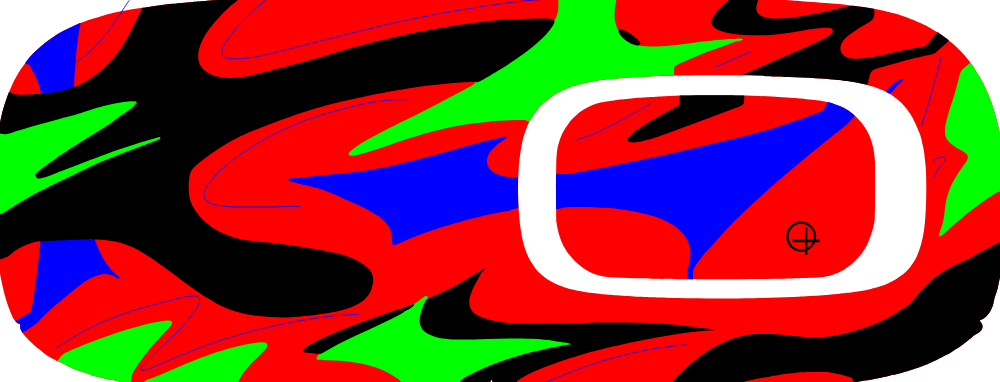
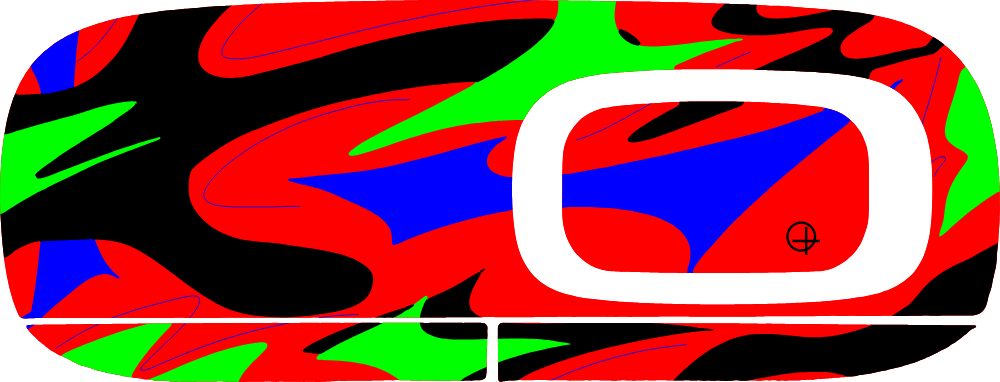
fdghjjk

diff --git a/src/lib/car.ts b/src/lib/car.ts
@@ -270,7 +270,7 @@ function nightLayers(u: string, o: CarOpts, ang: Angle, img: string) {
 }
 
 /* Each design draws into the door panel and the rear window; everything is clipped to those two shapes. */
-export const ART: Record<string, { door: (a: string, b: string, u: string) => string; win: (a: string, b: string, u: string) => string }> = {};
+export const ART: Record<string, { door: (a: string, b: string, u: string, logo?: boolean) => string; win: (a: string, b: string, u: string) => string }> = {};
 
 /* Signature artwork: the whole door shape maps onto the door panel; a section of the same art (left of the badge) fills the rear window.
    The picture size follows the device: 1000 px files on small screens / low memory, 1600 px otherwise (the server render uses the
@@ -287,16 +287,26 @@ const toneMatrix = (a: string, b: string) => {
   const L = p(a), Dk = p(b);
   return [0, 1, 2].map((ch) => `${L[ch]} ${Dk[ch]} 1 0 0`).join(' ') + ' 0 0 0 1 0';
 };
+/* "Logo only" middle part: a plain dark plate with the OFS/T logo, exactly the shape and size of the middle piece of the door sticker
+   (INNER, in millimetres on the sticker sheet, the same for every design), drawn over the design inside the picture so it follows the
+   door in every view. */
+const SHEET_MM = [746, 285];
+const INNER = 'M551 203.6 L544.4 203.7 L537.8 203.7 L531.2 203.7 L524.6 203.7 L518 203.7 L511.4 203.7 L504.8 203.6 L498.2 203.5 L491.6 203.4 L485 203.2 L478.4 203 L471.8 202.9 L465.2 202.7 L458.6 202.4 L452 201.9 L445.6 200.2 L439.7 197.3 L434.3 193.5 L429.6 188.9 L425.9 183.5 L422.9 177.6 L420.9 171.3 L419.8 164.8 L419.4 158.2 L419.4 151.6 L419.4 145 L419.5 138.4 L419.5 131.8 L419.5 125.2 L419.8 118.6 L420.4 112.1 L422.1 105.7 L424.8 99.7 L428.4 94.2 L432.9 89.3 L438.2 85.5 L444.1 82.5 L450.4 80.7 L456.9 79.6 L463.5 78.7 L470 78.2 L476.6 77.6 L483.2 77.2 L489.8 76.9 L496.4 76.5 L503 76.1 L509.6 75.9 L516.2 75.8 L522.8 75.7 L529.4 75.7 L536 75.7 L542.6 75.7 L549.2 75.8 L555.8 75.9 L562.4 76.1 L569 76.4 L575.5 76.6 L582.1 77 L588.7 77.4 L595.3 77.9 L601.9 78.7 L608.4 79.3 L615 80.3 L621.3 82.1 L627.4 84.6 L632.9 88.2 L637.7 92.8 L641.6 98 L644.6 103.9 L646.7 110.2 L647.8 116.7 L648.2 123.2 L648.3 129.8 L648.3 136.4 L648.3 143 L648.3 149.6 L648.2 156.2 L647.9 162.8 L646.7 169.3 L644.7 175.6 L642.1 181.6 L638.5 187.2 L634 192 L628.8 196.1 L623.1 199.3 L616.8 201.5 L610.3 202.4 L603.7 202.8 L597.1 202.9 L590.5 203.1 L583.9 203.3 L577.3 203.4 L570.7 203.4 L564.1 203.5 L557.5 203.6Z';
+const logoPlate = (a: string, u: string, kx: number, ky: number) => `<g transform="scale(${kx.toFixed(4)} ${ky.toFixed(4)})">
+    <linearGradient id="${u}-pl" x1="0" y1="0" x2="0" y2="1"><stop offset="0" stop-color="#262626"/><stop offset="1" stop-color="#141414"/></linearGradient>
+    <path d="${INNER}" fill="url(#${u}-pl)" stroke="#1D1D1D" stroke-width=".5" stroke-linejoin="round"/>
+    <mask id="${u}-lg" maskUnits="userSpaceOnUse" x="490" y="96" width="88" height="88"><image href="${LOGO}" x="494.8" y="100.7" width="78" height="78"/></mask>
+    <rect class="plate-logo" x="490" y="96" width="88" height="88" fill="${a}" mask="url(#${u}-lg)"/></g>`;
 /* Draws a design's picture into the door panel (whole sheet) and the rear window (a section of the same art, left of the badge). */
 export function registerArt(id: string, S: ArtSrc) {
   const [l, t, r, b] = S.pill, i = 0;
-  const art = (x: number, y: number, w: number, h: number, vb: number[], a: string, bb: string, u: string) => {
+  const art = (x: number, y: number, w: number, h: number, vb: number[], a: string, bb: string, u: string, logo = false) => {
     const filt = S.mode === 'mask' ? `<filter id="${u}-tone" x="0" y="0" width="1" height="1" color-interpolation-filters="sRGB"><feColorMatrix type="matrix" values="${toneMatrix(a, bb)}"/></filter>` : '';
     return `${filt}<svg x="${x}" y="${y}" width="${w}" height="${h}" viewBox="${vb.join(' ')}" preserveAspectRatio="none" overflow="hidden">
-      <image href="${S.src(ART_W)}" width="${S.size[0]}" height="${S.size[1]}"${filt ? ` filter="url(#${u}-tone)"` : ''}/></svg>`;
+      <image href="${S.src(ART_W)}" width="${S.size[0]}" height="${S.size[1]}"${filt ? ` filter="url(#${u}-tone)"` : ''}/>${logo ? logoPlate(a, u, (r - l) / SHEET_MM[0], (b - t) / SHEET_MM[1]) : ''}</svg>`;
   };
   ART[id] = {
-    door: (a, bb, u) => art(872, 654, 279, 112, [l + i, t + i, r - l - 2 * i, b - t - 2 * i], a, bb, u + 'd'),
+    door: (a, bb, u, logo) => art(872, 654, 279, 112, [l + i, t + i, r - l - 2 * i, b - t - 2 * i], a, bb, u + 'd', !!logo),
     win: (a, bb, u) => art(1161, 345, 139, 144, [l + 370, t + 8, 650, b - t - 16], a, bb, u + 'w'),
   };
 }
@@ -346,17 +356,12 @@ export function carSVG(kit: Kit, o: CarOpts): string {
   // Door sticker: panel artwork, its shading, the panel lines and the OFS/T badge plate over the factory badge.
   const door = Z.door ? `<g clip-path="url(#${u}-door)">
       <rect x="860" y="645" width="300" height="130" fill="${panelOf(o.model, o.trim, 'side')}"/>
-      <g class="slot-door"><g>${A.door(a, b, u + 'x')}</g></g>
+      <g class="slot-door"><g>${A.door(a, b, u + 'x', !centreFull(o))}</g></g>
       <rect x="860" y="645" width="300" height="130" fill="url(#${u}-ds)"/>
       <rect class="shine" x="860" y="645" width="300" height="130" fill="url(#${u}-sh)" ${shine}/>
     </g>
     <rect ${M.door} fill="none" stroke="#0E0F10" stroke-width="2.5"/>
-    <path d="M876 741.5 H1147" stroke="#060606" stroke-width="3"/><path d="M880 744.2 H1143" stroke="#fff" stroke-opacity=".07" stroke-width="1"/><path d="M1011.5 743 V762" stroke="#060606" stroke-width="2.5"/>
-    ${centreFull(o) ? '' : `<image ${img} clip-path="url(#${u}-badge)"/>
-    <rect x="${P[0]}" y="${P[1]}" width="${P[2]}" height="${P[3]}" rx="${P[4]}" fill="url(#${u}-pl)"/><g${M.dx ? ` transform="translate(${M.dx} 0)"` : ''}>
-    <mask id="${u}-lg" maskUnits="userSpaceOnUse" x="1050" y="684" width="50" height="44"><image href="${LOGO}" x="1056" y="687" width="37" height="37"/></mask>
-    <rect class="plate-logo" x="1050" y="684" width="50" height="44" fill="${a}" mask="url(#${u}-lg)" style="opacity:${plateText(o) ? 0 : 1}"/>
-    <text class="plate" x="1074.5" y="711" text-anchor="middle" fill="${a}" style="font:800 15px Archivo,sans-serif;font-stretch:125%;letter-spacing:.06em">${plateText(o)}</text></g>`}` : '';
+    <path d="M876 741.5 H1147" stroke="#060606" stroke-width="3"/><path d="M880 744.2 H1143" stroke="#fff" stroke-opacity=".07" stroke-width="1"/><path d="M1011.5 743 V762" stroke="#060606" stroke-width="2.5"/>` : '';
   const win = Z.win ? `<g clip-path="url(#${u}-win)"><g${M.winT ? ` transform="${M.winT}"` : ''}>
       <rect x="1150" y="335" width="160" height="165" fill="#1C2022"/>
       <g class="slot-win"><g>${A.win(a, b, u + 'x')}</g></g>
@@ -398,7 +403,7 @@ function carSVGAt(kit: Kit, o: CarOpts, ang: Angle): string {
   if (!z.Hd) return head + `<defs>${N.defs}${BC.defs}</defs><g>${N.under}<image ${img}/>${BC.body}${N.over}</g></svg>`;
   // The plate is drawn a little larger than in the side view so the factory badge (and the green pill) never peeks out at its edge.
   const shine = `style="opacity:.25"`, P = growPlate(MODEL_DEFS.qs.plate);
-  const D = Z.door ? warp(u + '-dw', z.Hd, [860, 645, 300, 130], `<g class="slot-door"><g>${A.door(a, b, u + 'x')}</g></g>`) : { defs: '', body: '' };
+  const D = Z.door ? warp(u + '-dw', z.Hd, [860, 645, 300, 130], `<g class="slot-door"><g>${A.door(a, b, u + 'x', !centreFull(o))}</g></g>`) : { defs: '', body: '' };
   const W = Z.win ? warp(u + '-ww', z.Hw, [1150, 335, 160, 165], `<g class="slot-win"><g>${A.win(a, b, u + 'x')}</g></g>`) : { defs: '', body: '' };
   // Door panel lines of the side view (lower crease and the short upright), mapped as straight lines.
   const line = (x0: number, y0: number, x1: number, y1: number, st: string) => { const p = hp(z.Hd, x0, y0), q2 = hp(z.Hd, x1, y1); return `<path d="M${p[0].toFixed(1)} ${p[1].toFixed(1)} L${q2[0].toFixed(1)} ${q2[1].toFixed(1)}" ${st}/>`; };
@@ -410,14 +415,7 @@ function carSVGAt(kit: Kit, o: CarOpts, ang: Angle): string {
       <g transform="${mat(z.dA)}"><rect x="860" y="645" width="300" height="130" fill="url(#${u}-ds)"/><rect class="shine" x="860" y="645" width="300" height="130" fill="url(#${u}-sh)" ${shine}/></g>
     </g>
     <path d="${z.door}" fill="none" stroke="#0E0F10" stroke-width="${Math.max(3.2 * z.ds, 2.8).toFixed(2)}" stroke-linejoin="round"/>
-    ${line(876, 741.5, 1147, 741.5, `stroke="#060606" stroke-width="${sw(3)}"`)}${line(880, 744.2, 1143, 744.2, `stroke="#fff" stroke-opacity=".07" stroke-width="${sw(1)}"`)}${line(1011.5, 743, 1011.5, 762, `stroke="#060606" stroke-width="${sw(2.5)}"`)}
-    ${centreFull(o) ? '' : `<image ${img} clip-path="url(#${u}-badge)"/>
-    <g transform="${mat(z.bA)}">
-      <rect x="${P[0]}" y="${P[1]}" width="${P[2]}" height="${P[3]}" rx="${P[4]}" fill="url(#${u}-pl)"/>
-      <mask id="${u}-lg" maskUnits="userSpaceOnUse" x="1050" y="684" width="50" height="44"><image href="${LOGO}" x="1056" y="687" width="37" height="37"/></mask>
-      <rect class="plate-logo" x="1050" y="684" width="50" height="44" fill="${a}" mask="url(#${u}-lg)" style="opacity:${plateText(o) ? 0 : 1}"/>
-      <text class="plate" x="1074.5" y="711" text-anchor="middle" fill="${a}" style="font:800 15px Archivo,sans-serif;font-stretch:125%;letter-spacing:.06em">${plateText(o)}</text>
-    </g>`}` : '';
+    ${line(876, 741.5, 1147, 741.5, `stroke="#060606" stroke-width="${sw(3)}"`)}${line(880, 744.2, 1143, 744.2, `stroke="#fff" stroke-opacity=".07" stroke-width="${sw(1)}"`)}${line(1011.5, 743, 1011.5, 762, `stroke="#060606" stroke-width="${sw(2.5)}"`)}` : '';
   const win = Z.win ? `<g clip-path="url(#${u}-win)">
       <path d="${z.win}" fill="#1C2022"/>
       ${W.body}
@@ -538,7 +536,7 @@ export class Stage {
     const fns = [A.door, A.win];
     [0, 1].forEach((n) => {
       const slot = this.slots[n]; if (!slot) return;
-      const g = document.createElementNS(NS, 'g'); g.innerHTML = fns[n](hex(C.c1), hex(C.c2), lid + n);
+      const g = document.createElementNS(NS, 'g'); g.innerHTML = fns[n](hex(C.c1), hex(C.c2), lid + n, n === 0 && !centreFull(C));
       slot.replaceChildren(g);
     });
   }

diff --git a/src/lib/printfile.ts b/src/lib/printfile.ts
@@ -240,6 +240,11 @@ export async function artPictures(master: string, mode: ArtMode): Promise<{ w100
   }
   bg.setAttribute('fill', baseFill);
   const art = root.querySelector('#Artwork')!; art.insertBefore(bg, art.firstChild);
+  if (outline) { // also clip the art at the cut outlines: the printed bleed (past the cut) would otherwise narrow the gap in the preview
+    const cp = doc.createElementNS(NS, 'clipPath'), cpp = doc.createElementNS(NS, 'path');
+    cp.setAttribute('id', 'cutclip'); cpp.setAttribute('d', outline); cpp.setAttribute('clip-rule', 'evenodd'); cp.append(cpp);
+    root.insertBefore(cp, art); art.setAttribute('clip-path', 'url(#cutclip)');
+  }
   root.setAttribute('viewBox', `0 0 ${sheet.w} ${sheet.h}`);
   root.setAttribute('shape-rendering', 'geometricPrecision');
   const make = async (W: number) => {
